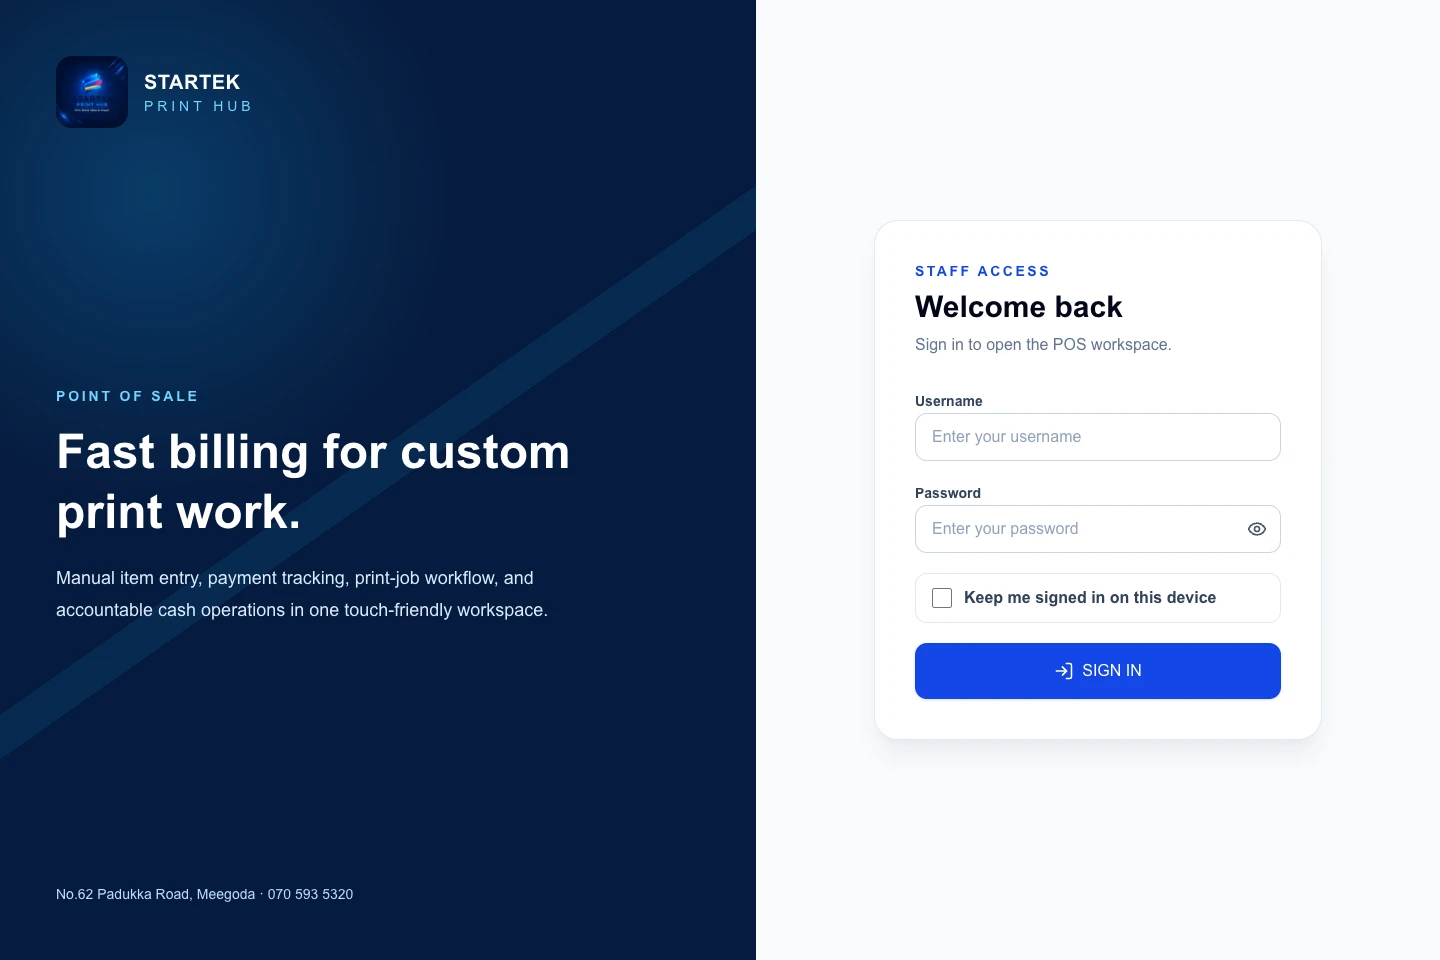
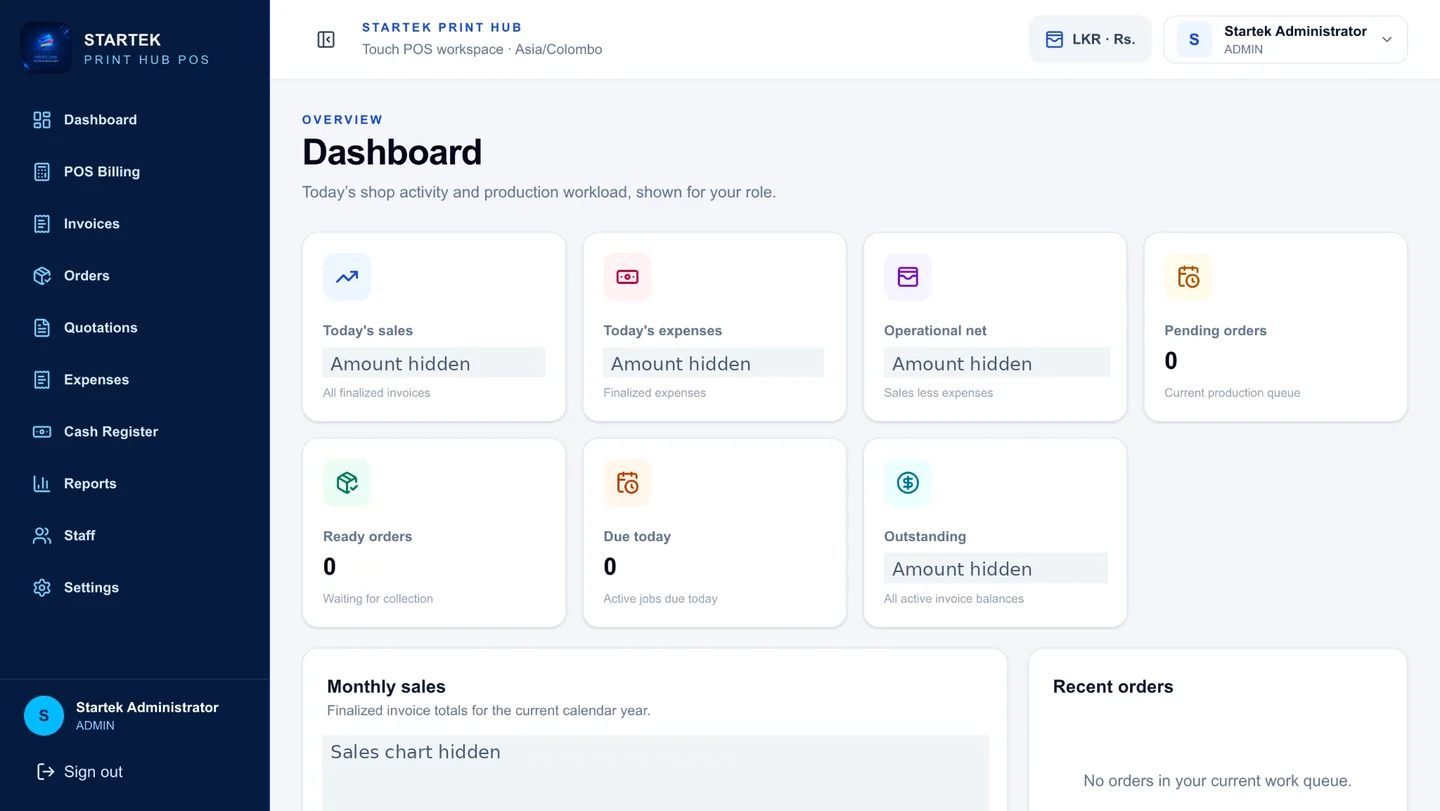
docs(portfolio): showcase genuine Print Hub administrator dashboard

diff --git a/app/projects.ts b/app/projects.ts
@@ -4,7 +4,7 @@ export type Project = {
 export const projects: Project[] = [
  {slug:"rice-and-kottu-hut-pos",name:"Rice & Kottu Hut POS",number:"01",kind:"Independent · Business application",summary:"A point-of-sale and back-office system independently developed for my restaurant.",problem:"A single restaurant needs reliable order, payment and operational workflows.",implementation:"Next.js and TypeScript application backed by Prisma and PostgreSQL, with role-aware operations and release validation.",evidence:"Released v1.1.0; the cloud evaluation deployment has passed its public smoke checks. The owner reports successful shop operation.",limitations:"Public evaluation uses isolated data. Independent physical printer and operational acceptance are not claimed.",stack:["Next.js","TypeScript","Prisma","PostgreSQL"],doc:"docs/PORTFOLIO_CASE_STUDY.md",live:"https://rice-and-kottu-hut-pos.netlify.app",image:"/images/rice-kottu-hut-pos.webp",imageAlt:"Actual Rice and Kottu Hut POS billing screen with demo menu items and shopping cart",imageNote:"Actual POS screenshot · synthetic demonstration data"},
  {slug:"serviceops-group-project",name:"ServiceOps",number:"02",kind:"Collaborative · Academic final project",summary:"Role-based service operations, ticket handling, dispatch and inventory coordination.",problem:"Service teams need shared visibility over customer requests, technician assignments and stock.",implementation:"Next.js client, ASP.NET Core Web API and PostgreSQL. My allocated role was project manager, solution architect and backend integration developer within a five-person group.",evidence:"Source-backed application previews, team attribution, documented architecture and successful build checks.",limitations:"Completed group coursework, not an individual solo project. No implemented AI copilot or RAG features.",stack:["Next.js","ASP.NET Core","PostgreSQL"],doc:"docs/CASE_STUDY.md",image:"/images/serviceops.webp",imageAlt:"ServiceOps operations dashboard from the project's existing application previews",imageNote:"Existing application preview · group project"},
- {slug:"startek-print-hub-pos",name:"Startek Print Hub POS",number:"03",kind:"Business operations",summary:"A print-shop operations system spanning print jobs and financial workflows.",problem:"Print operations require coordination of jobs, customers and financial records.",implementation:"TypeScript and Next.js application with Prisma and PostgreSQL-backed workflows.",evidence:"Repository source and automated test coverage demonstrate operational software development.",limitations:"Production acceptance and financial outcomes are not independently asserted.",stack:["Next.js","TypeScript","Prisma","PostgreSQL"],image:"/images/startek-print-hub-pos.webp",imageAlt:"Actual Startek Print Hub POS staff sign-in screen",imageNote:"Live application · public sign-in screen",live:"https://startek-print-hub-pos.vercel.app"},
+ {slug:"startek-print-hub-pos",name:"Startek Print Hub POS",number:"03",kind:"Business operations",summary:"A print-shop operations system spanning print jobs and financial workflows.",problem:"Print operations require coordination of jobs, customers and financial records.",implementation:"TypeScript and Next.js application with Prisma and PostgreSQL-backed workflows.",evidence:"Repository source and automated test coverage demonstrate operational software development.",limitations:"Production acceptance and financial outcomes are not independently asserted.",stack:["Next.js","TypeScript","Prisma","PostgreSQL"],image:"/images/startek-print-hub-pos.webp",imageAlt:"Actual Startek Print Hub POS administrator dashboard showing operational metrics, order status and financial reporting, with sensitive amounts redacted",imageNote:"Actual administrator dashboard · financial data redacted",live:"https://startek-print-hub-pos.vercel.app"},
  {slug:"nwsdb-smart-water-billing-system",name:"NWSDB Smart Water Billing",number:"04",kind:"Academic · Backend architecture",summary:"A service-oriented billing system modeling customers, meters, tariffs and payments.",problem:"Utility billing workflows need consistent customer, connection, reading and billing records.",implementation:"ASP.NET Core API and MVC client, application/domain/infrastructure layers, Entity Framework Core and relational persistence.",evidence:"36 automated unit tests passed during repository preparation. The screenshot is from the original project report.",limitations:"Educational case study, not an official NWSDB deployment.",stack:["C#",".NET","EF Core","SQL"],doc:"docs/CASE_STUDY.md",image:"/images/nwsdb.webp",imageAlt:"NWSDB billing administrator analytics interface from the project report",imageNote:"Historical report screenshot"},
  {slug:"printxpress",name:"PrintXpress",number:"05",kind:"Academic · Android application",summary:"An Android application for print product discovery and local order workflows.",problem:"Customers need a convenient mobile interface for browsing printing services and managing orders.",implementation:"Native Java and XML Android application with Room and SQLite local data storage.",evidence:"Application screenshots and report-backed workflow evidence are published in the repository.",limitations:"Local academic demonstration; no live payment gateway claimed.",stack:["Java","Android","Room","SQLite"],doc:"docs/screenshots/README.md",image:"/images/printxpress.webp",imageAlt:"PrintXpress Android app home screen from the published project screenshots",imageNote:"Historical application screenshot"},
  {slug:"swiftdrive-rentals",name:"SwiftDrive Rentals",number:"06",kind:"Portfolio · Full-stack web application",summary:"Vehicle reservations, pricing, staff operations and fleet management.",problem:"Rental operations need availability checks, booking requests and fleet records.",implementation:"Server-rendered PHP with PDO, MySQL and role-aware sessions, reservation pricing and operational views.",evidence:"Published source, synthetic demonstration data, passing PHP syntax-validation workflow, and homepage rendered successfully using an isolated local MySQL database.",limitations:"No completed database-backed browser acceptance or external payment settlement claimed.",stack:["PHP","MySQL","Bootstrap","JavaScript"],doc:"docs/CASE_STUDY.md",image:"/images/swiftdrive.webp",imageAlt:"Actual SwiftDrive Rentals homepage and availability search rendered with synthetic vehicle fixtures",imageNote:"Actual application · isolated local demo"}

diff --git a/README.md b/README.md
@@ -10,7 +10,7 @@ Requires Node.js 22+.
 ## Deployment
 Vercel, connected to the existing GitHub repository. The portfolio/v2 branch is the review branch; main is the original website until the new site is approved. No database, credentials, or contact backend is required. Contact links open email or LinkedIn directly.
 ## Image provenance
-Portrait: owner-approved black-and-white Kevin Menuja 2.png, visually matched to the supplied image and converted to WebP without retouching. ServiceOps: checked-in operations-light.webp application preview. NWSDB: published admin-analytics.png report screenshot, previously privacy-reviewed. PrintXpress: published docs/screenshots/home.png historical screenshot. Rice & Kottu Hut POS: checked-in docs/portfolio/pos-desktop.jpg billing screenshot, using synthetic demo data. Startek Print Hub POS: public production sign-in page captured 25 November 2026 without authentication. SwiftDrive Rentals: homepage captured 25 November 2026 from a disposable local PHP/MySQL instance seeded from the published synthetic SQL. All six featured projects use genuine application screenshots or existing source-derived application previews. No AI-generated dashboard imagery is used. SwiftDrive homepage rendering is not a complete booking acceptance test.
+Portrait: owner-approved black-and-white Kevin Menuja 2.png, visually matched to the supplied image and converted to WebP without retouching. ServiceOps: checked-in operations-light.webp application preview. NWSDB: published admin-analytics.png report screenshot, previously privacy-reviewed. PrintXpress: published docs/screenshots/home.png historical screenshot. Rice & Kottu Hut POS: checked-in docs/portfolio/pos-desktop.jpg billing screenshot, using synthetic demo data. Startek Print Hub POS: owner-supplied real administrator dashboard screenshot; financial amounts and monthly sales chart masked before publication, resized to 1440 × 811 WebP. No production account was accessed for this screenshot. SwiftDrive Rentals: homepage captured 25 November 2026 from a disposable local PHP/MySQL instance seeded from the published synthetic SQL. All six featured projects use genuine application screenshots or existing source-derived application previews. No AI-generated dashboard imagery is used. SwiftDrive homepage rendering is not a complete booking acceptance test.
 ## Brand system
 Approved dark theme: background #0B0D10, surfaces #171A1F, text #F5F7FA, muted #A7B0B8, accent #CFE8B0, hover #7FA36B, borders #2A2F36. Portrait preserves the full original image; CSS scales it without stretching.
 ## Maintenance
